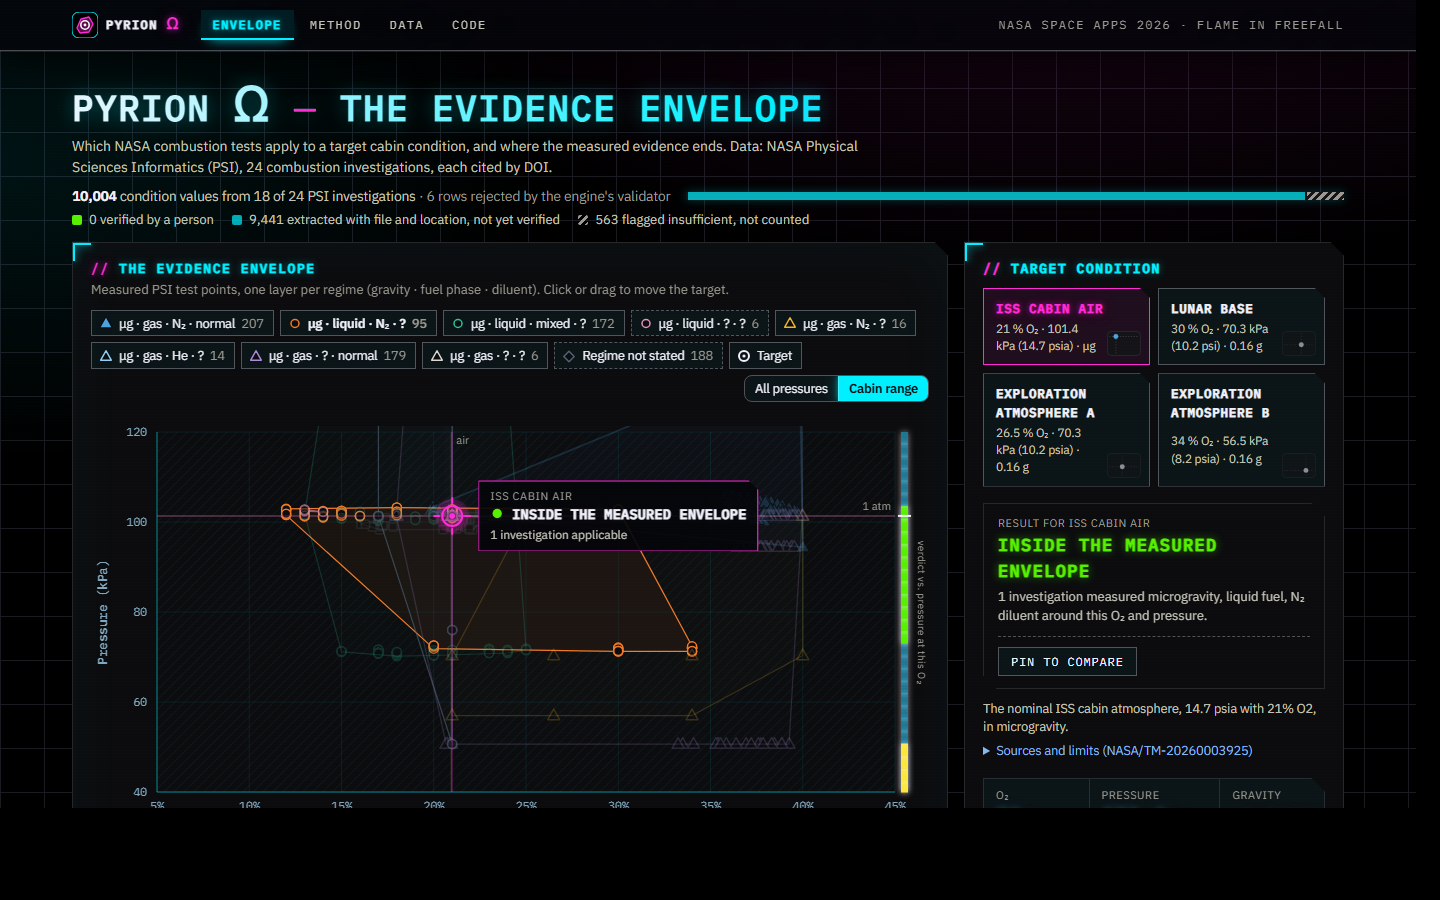
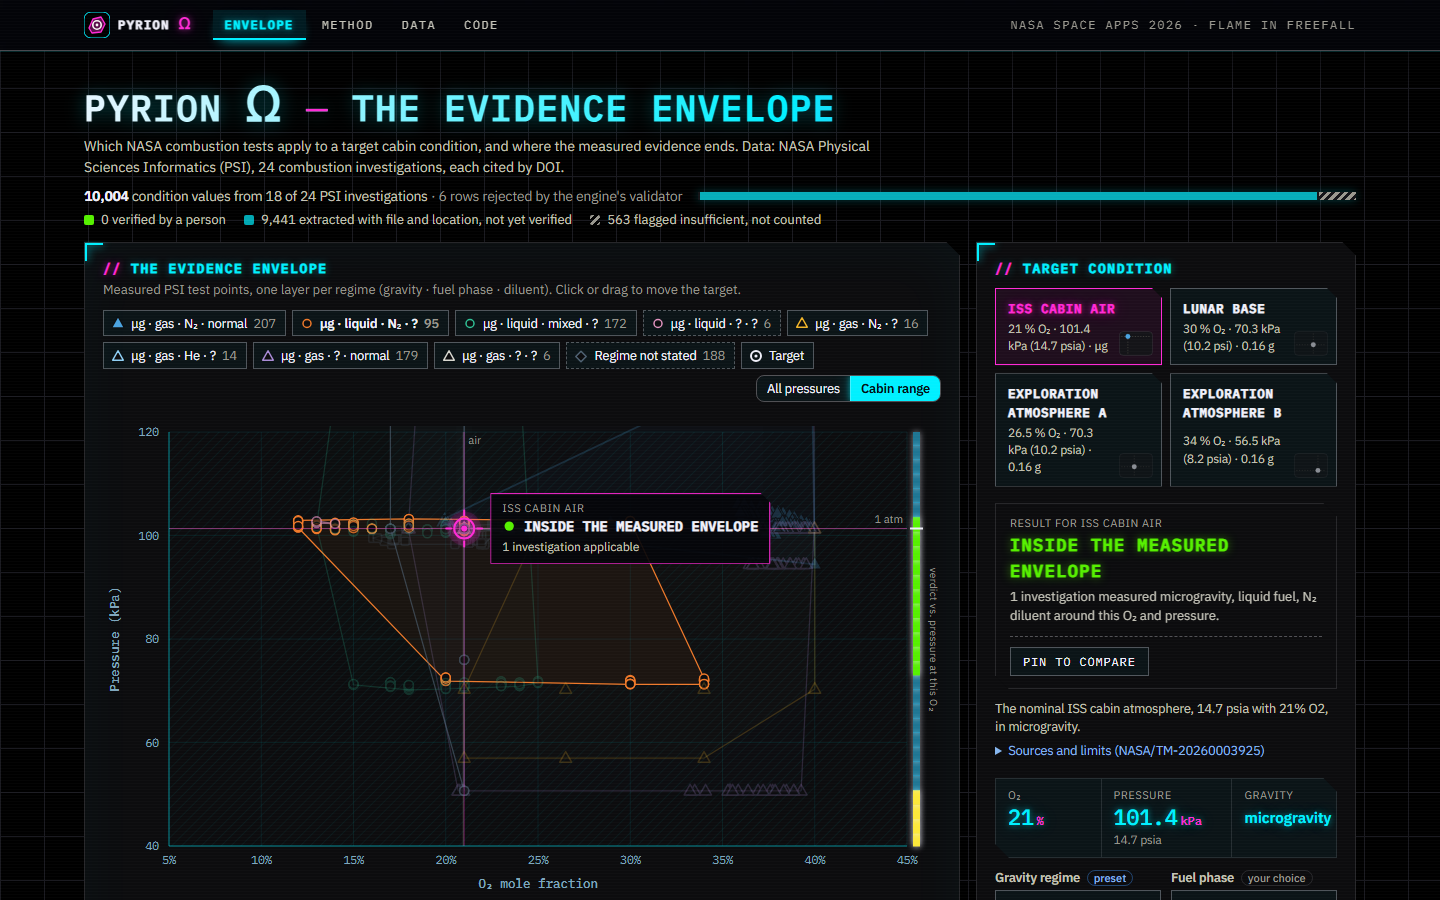
web: cyber theme without backdrop blur or blend (lighter to paint); screenshots

diff --git a/web/app/cyber.css b/web/app/cyber.css
@@ -59,7 +59,6 @@ body {
     linear-gradient(var(--grid) 1px, transparent 1px) 0 0 / 44px 44px,
     linear-gradient(90deg, var(--grid) 1px, transparent 1px) 0 0 / 44px 44px,
     var(--page);
-  background-attachment: fixed;
   color: var(--ink);
 }
 /* static scanlines (no animation) */
@@ -69,8 +68,7 @@ body::after {
   inset: 0;
   pointer-events: none;
   z-index: 50;
-  background: repeating-linear-gradient(0deg, rgba(255, 255, 255, 0.025) 0 1px, transparent 1px 3px);
-  mix-blend-mode: overlay;
+  background: repeating-linear-gradient(0deg, rgba(255, 255, 255, 0.018) 0 1px, transparent 1px 3px);
 }
 ::selection {
   background: var(--neon-2);
@@ -137,7 +135,6 @@ a:hover {
   border: 1px solid var(--border);
   border-radius: 0;
   clip-path: polygon(0 0, calc(100% - 14px) 0, 100% 14px, 100% 100%, 14px 100%, 0 calc(100% - 14px));
-  backdrop-filter: blur(6px);
 }
 .card::before,
 .result::before {
